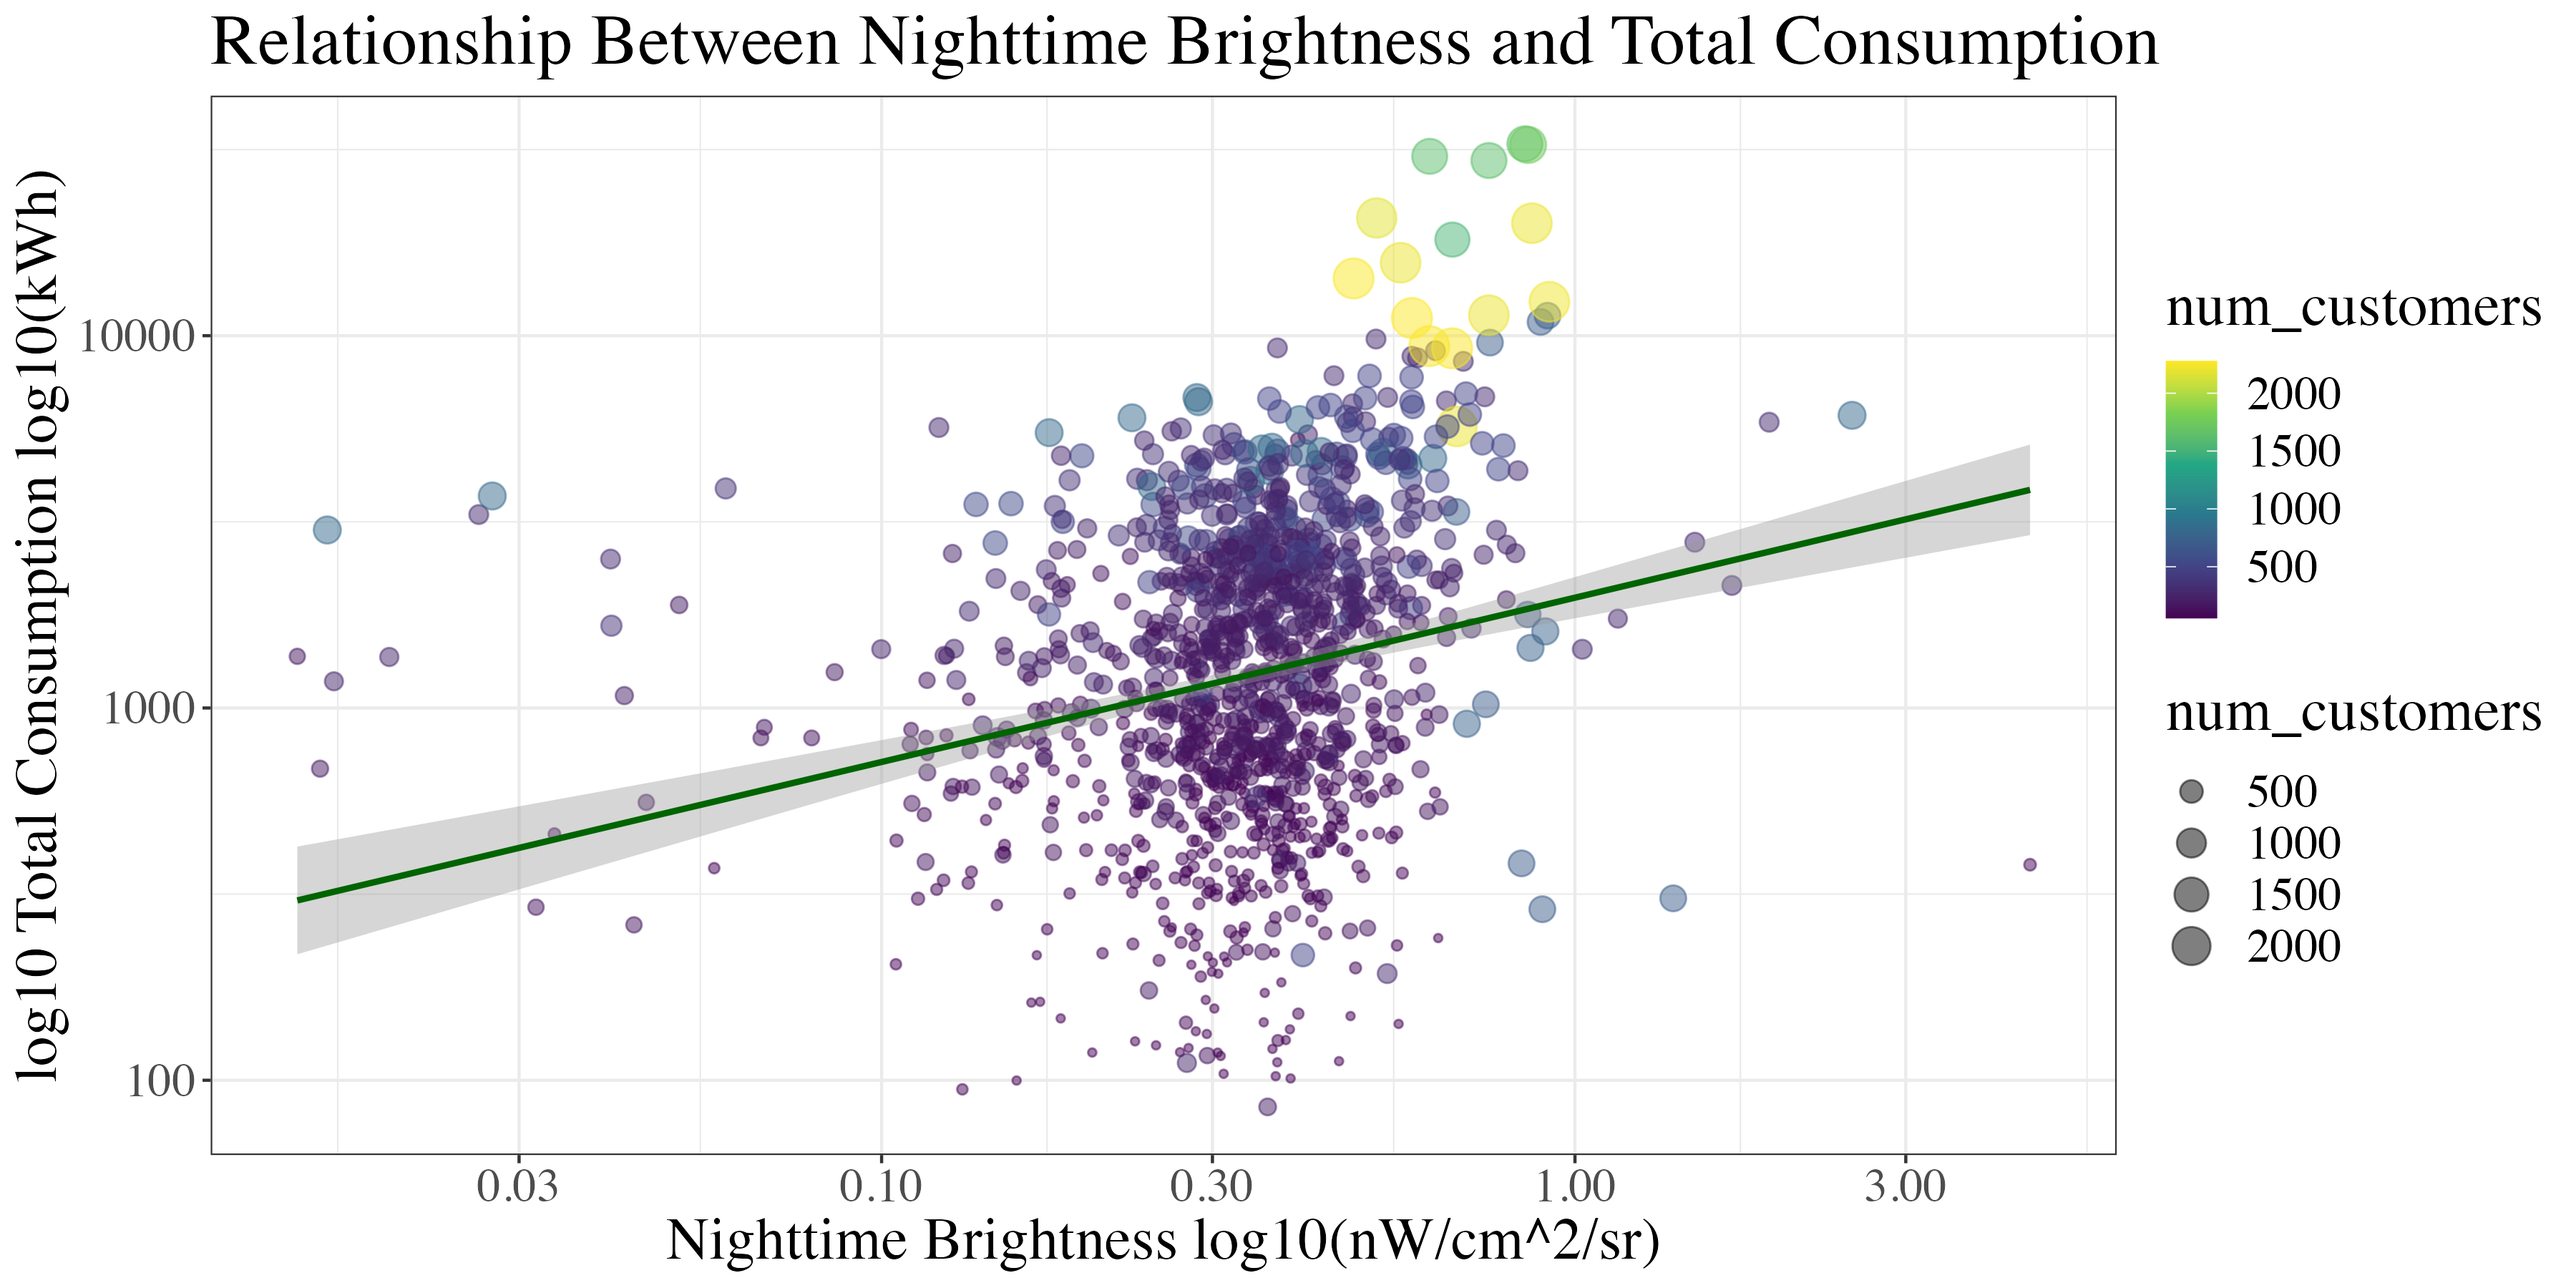
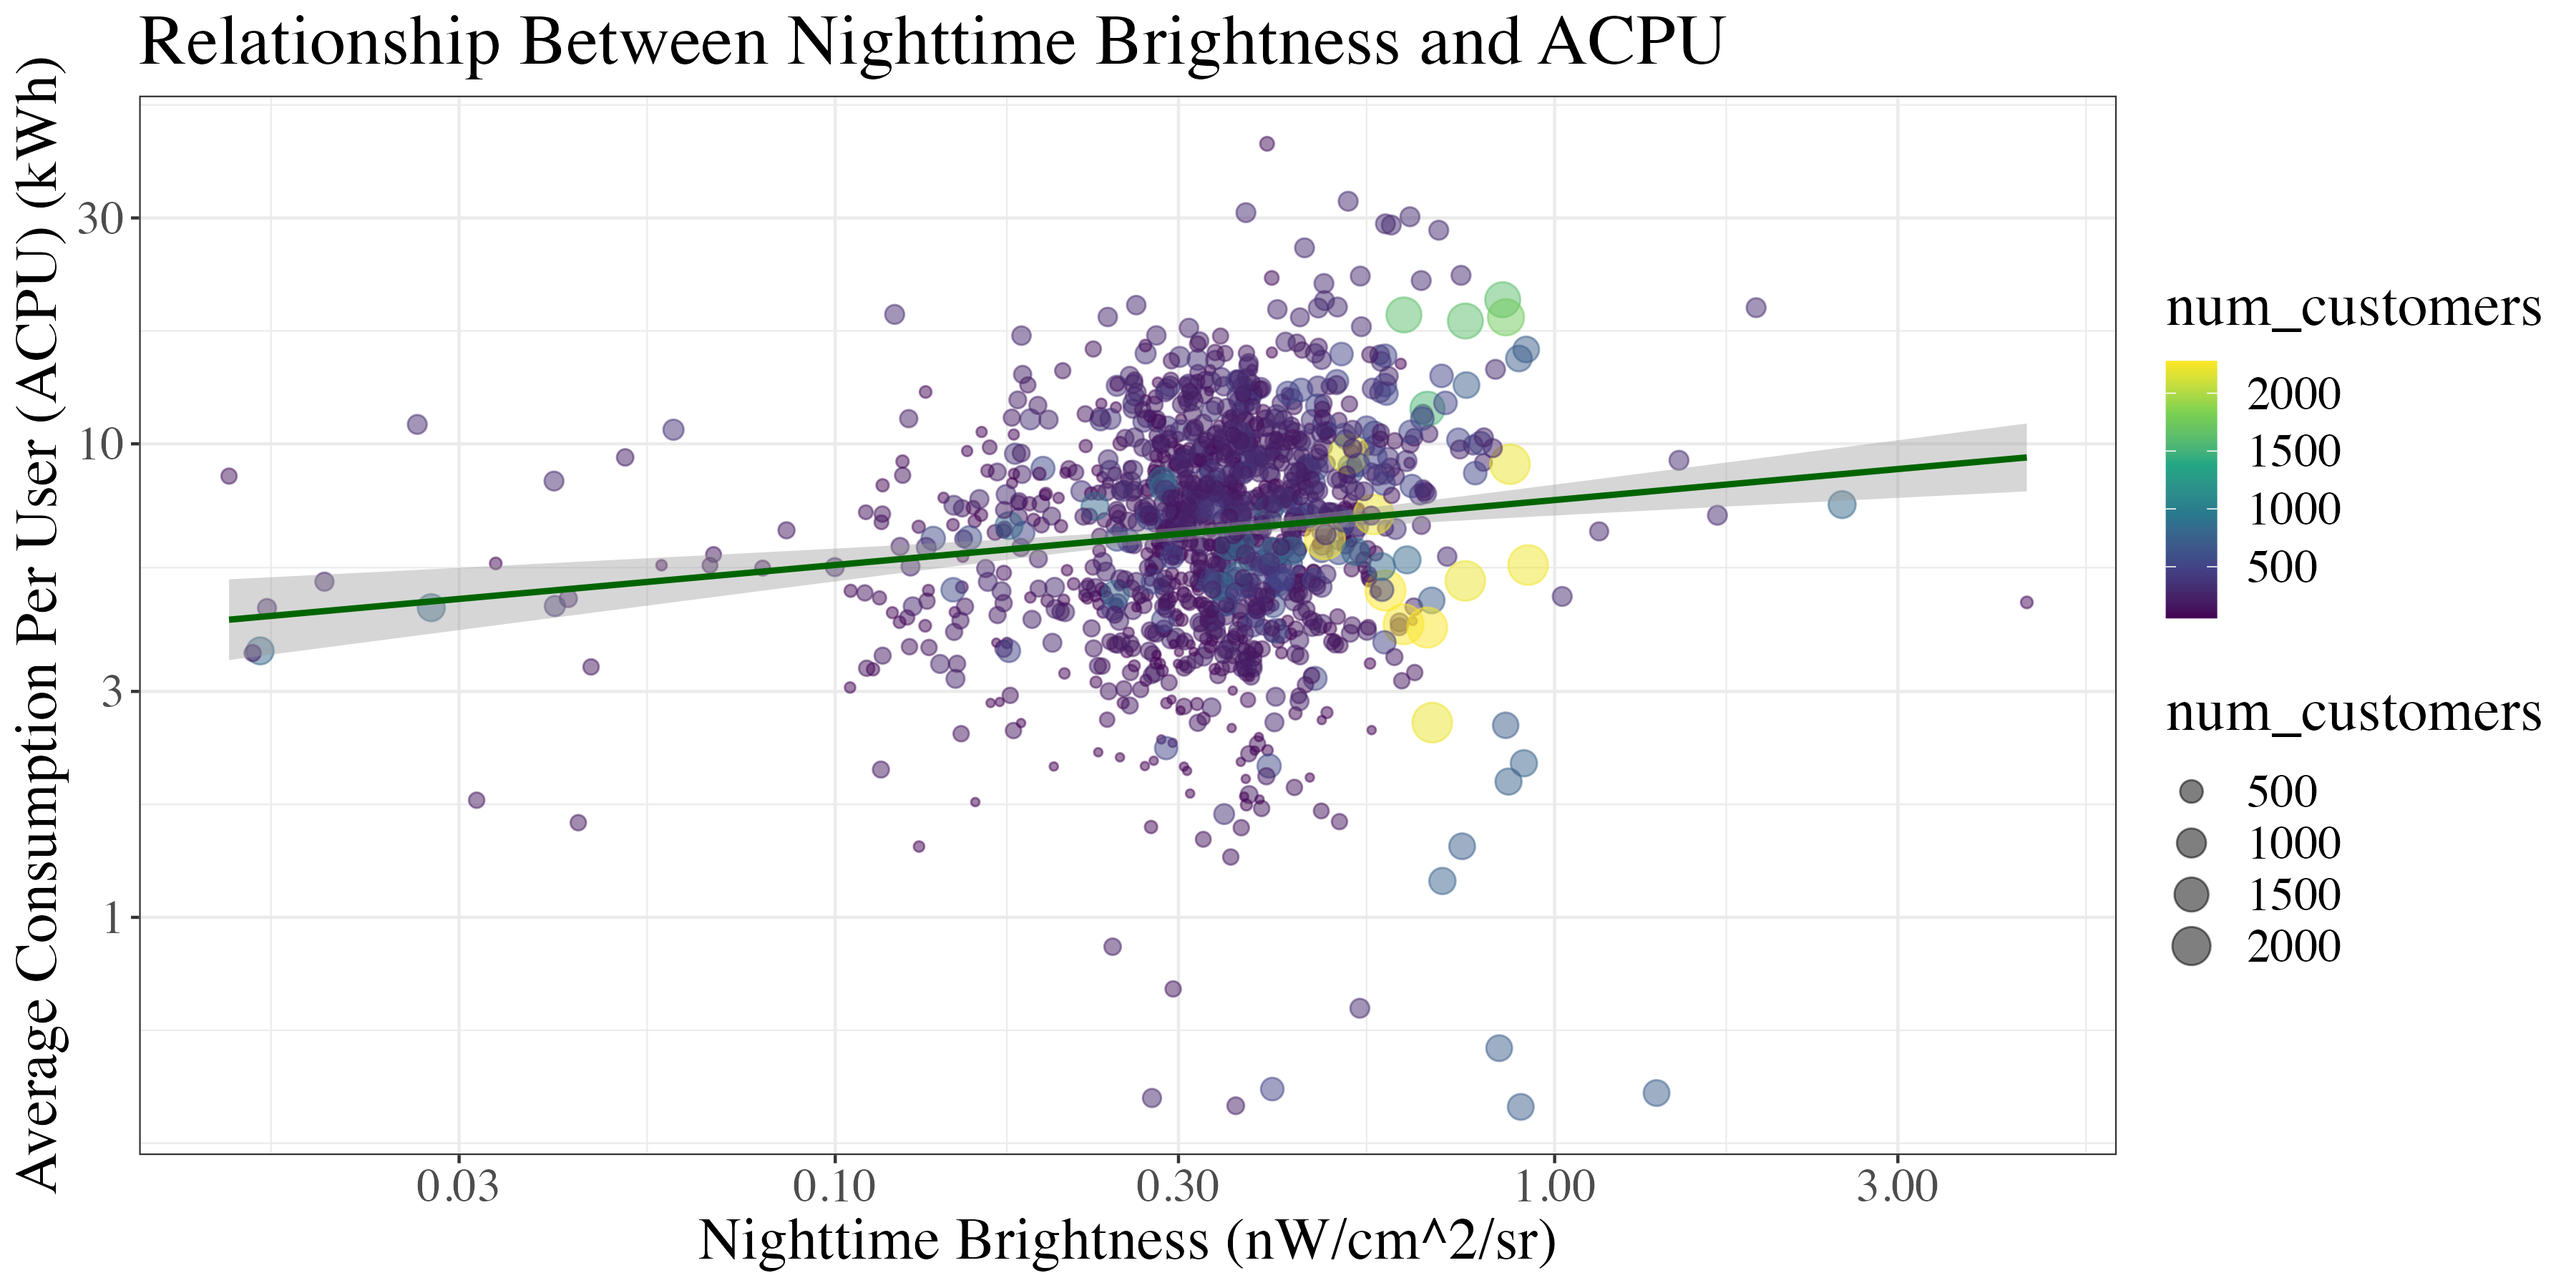
Add to and edit the usage section.

diff --git a/figures/usage/sum_stats.md b/figures/usage/sum_stats.md
@@ -1,0 +1,31 @@
+       type      date_commissioned     site_name               id      
+ built    :   0   Min.   :2019-07-04   Length:1319        186    :  53  
+ control  :   0   1st Qu.:2019-10-27   Class :character   181    :  50  
+ mini-grid:1319   Median :2020-01-01   Mode  :character   202    :  50  
+ ocean    :   0   Mean   :2020-07-12                      187    :  49  
+ rural    :   0   3rd Qu.:2021-04-18                      188    :  49  
+                  Max.   :2022-08-13                      189    :  49  
+                                                          (Other):1019  
+   image_date          image_value         group         time_period    
+ Min.   :2019-07-01   Min.   :0.0000   Min.   : 67.00   Min.   : 67.00  
+ 1st Qu.:2021-07-01   1st Qu.:0.2679   1st Qu.: 70.00   1st Qu.: 91.00  
+ Median :2022-05-01   Median :0.3396   Median : 73.00   Median :101.00  
+ Mean   :2022-03-27   Mean   :0.3490   Mean   : 78.87   Mean   : 99.84  
+ 3rd Qu.:2023-02-01   3rd Qu.:0.4169   3rd Qu.: 88.00   3rd Qu.:110.00  
+ Max.   :2023-11-01   Max.   :4.5329   Max.   :104.00   Max.   :119.00  
+                                                                        
+ total_consumption  num_customers    total_revenue       total_transactions
+ Min.   :   84.81   Min.   :  57.0   Min.   :    1.034   Min.   :   1.0    
+ 1st Qu.:  628.79   1st Qu.: 112.0   1st Qu.:  315.265   1st Qu.: 411.0    
+ Median : 1189.78   Median : 193.0   Median :  638.386   Median : 659.0    
+ Mean   : 1879.91   Mean   : 239.4   Mean   :  969.597   Mean   : 841.3    
+ 3rd Qu.: 2334.82   3rd Qu.: 270.0   3rd Qu.: 1169.942   3rd Qu.:1050.0    
+ Max.   :32770.81   Max.   :2276.2   Max.   :15009.643   Max.   :8762.0    
+                                                                           
+      acpu        
+ Min.   : 0.3978  
+ 1st Qu.: 4.6249  
+ Median : 6.7664  
+ Mean   : 7.4026  
+ 3rd Qu.: 9.2618  
+ Max.   :43.0226  
